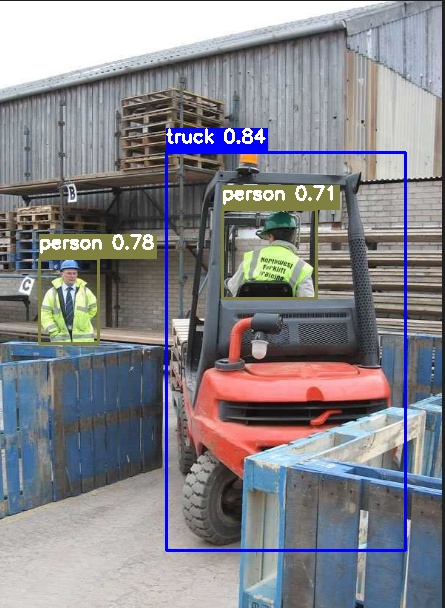
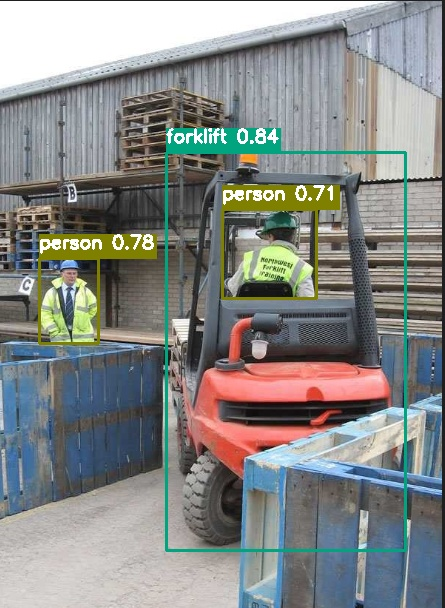
Feat: Added yolov8x

Changed region(s): [[0.0876, 0.1875, 0.9348, 0.9375]]

diff --git a/det.py b/det.py
@@ -1,59 +1,139 @@
-import os
 import cv2
-import time
-import numpy as np
 from ultralytics import YOLO
+import time
+import os
+from pathlib import Path
 
-class ObjectClassifier:
-    def __init__(self, model_path='yolov8n.pt'):
-        # Initialize the YOLO model with the specified model path
-        self.model = YOLO(model_path)
-        self.model.overrides['conf'] = 0.4  # Increased confidence threshold for better detection
-        self.model.overrides['iou'] = 0.5  # IoU threshold for NMS
 
-        # Class label definitions with unique colors for bounding boxes
+class VehicleDetector:
+    def __init__(self):
+        # Load the YOLOv8 model
+        self.model = YOLO('yolov8n')  # Adjust model for faster processing
+        # Set model parameters
+        self.model.overrides['conf'] = 0.40  # Higher confidence threshold
+        self.model.overrides['iou'] = 0.45
+        self.model.overrides['max_det'] = 1000
+
+        # Define classes with unique colors
         self.classes = {
-            0: ('person', (64, 128, 128)),
-            2: ('car', (0, 0, 255)),
-            3: ('bike', (0, 255, 0)),
-            5: ('bus', (255, 165, 0)),
-            6: ('train', (128, 0, 128)),
-            7: ('truck', (255, 0, 0)),        # Blue for truck
-            8: ('forklift', (0, 255, 255))    # Yellow for forklift
+            0: ('person', (0, 128, 128)),  # Dark Yellow for human detection
+            2: ('car', (0, 0, 128)),      # Dark Blue for car
+            3: ('motorcycle', (0, 128, 0)),  # Dark Green for motorcycle
+            5: ('bus', (0, 255, 255)),      # Dark Cyan for bus
+            6: ('train', (128, 0, 128)),    # Dark Magenta for train
+            7: ('truck', (128, 128, 0)),    # Dark Olive for truck
+            8: ('boat', (128, 0, 0)),       # Dark Red for boat
+            'forklift': ('forklift', (128, 165, 0))  # Dark Orange for forklift
         }
 
-    def annotate_frame(self, frame, box, class_id):
-        """Annotate the frame with bounding boxes and class labels."""
-        x1, y1, x2, y2 = map(int, box.xyxy[0])  # Bounding box coordinates
-        label, color = self.classes.get(class_id, ('Unknown', (0, 255, 0)))
-        confidence = box.conf[0]  # Confidence score
-
-        # Only annotate if the confidence is above the threshold
-        if confidence >= 0.4:
-            # Draw bounding box
-            cv2.rectangle(frame, (x1, y1), (x2, y2), color, 2)
-
-            # Add label and confidence above the box
-            label_text = f"{label} {confidence:.2f}"
-            label_size, _ = cv2.getTextSize(label_text, cv2.FONT_HERSHEY_SIMPLEX, 0.6, 2)
-            cv2.rectangle(frame, (x1, y1 - label_size[1] - 10), (x1 + label_size[0], y1), color, -1)
-            cv2.putText(frame, label_text, (x1, y1 - 10), cv2.FONT_HERSHEY_SIMPLEX, 0.6, (255, 255, 255), 2)
-
     def process_frame(self, frame):
-        """Process a single frame to perform object detection and annotation."""
-        results = self.model(frame)  # YOLO detection
+        """Process a single frame and return the annotated frame."""
+        results = self.model.predict(frame)
+        annotated_frame = frame.copy()
+
         for result in results:
             boxes = result.boxes
             for box in boxes:
-                class_id = int(box.cls[0])  # Get the detected class ID
-                if class_id in self.classes:
-                    self.annotate_frame(frame, box, class_id)  # Annotate the frame for recognized classes
-        return frame
+                # Get box coordinates
+                x1, y1, x2, y2 = map(int, box.xyxy[0])
+
+                # Get class and confidence
+                class_id = int(box.cls[0])
+                conf = float(box.conf[0])
+
+                # Ensure forklift detection is separated from truck detection
+                if class_id == 7 and 'forklift' in self.classes:
+                    label, color = self.classes['forklift']
+                elif class_id in self.classes:
+                    label, color = self.classes[class_id]
+                else:
+                    continue  # Skip objects that aren't in our classes
+
+                label_text = f"{label} {conf:.2f}"
+
+                # Draw bounding box with class-specific color
+                cv2.rectangle(annotated_frame, (x1, y1), (x2, y2), color, 2)
+
+                # Add label
+                label_size, _ = cv2.getTextSize(label_text, cv2.FONT_HERSHEY_SIMPLEX, 0.6, 2)
+                cv2.rectangle(annotated_frame, (x1, y1 - label_size[1] - 10),
+                              (x1 + label_size[0], y1), color, -1)
+                cv2.putText(annotated_frame, label_text, (x1, y1 - 10),
+                            cv2.FONT_HERSHEY_SIMPLEX, 0.6, (255, 255, 255), 2)
+
+        return annotated_frame
+
+    def process_image(self, input_path, output_path):
+        """Process a single image."""
+        image = cv2.imread(input_path)
+        if image is None:
+            print(f"Error: Could not read image {input_path}")
+            return
+
+        # Process the image
+        processed_image = self.process_frame(image)
+
+        # Ensure output directory exists
+        os.makedirs(os.path.dirname(output_path), exist_ok=True)
+        cv2.imwrite(output_path, processed_image)
+        print(f"Processed image saved to {output_path}")
+
+    def process_video(self, input_path, output_path, frame_interval=1):
+        """Process video with specified frame interval."""
+        cap = cv2.VideoCapture(input_path)
+        if not cap.isOpened():
+            print(f"Error: Could not open video {input_path}")
+            return
+
+        # Get video properties
+        frame_width = int(cap.get(cv2.CAP_PROP_FRAME_WIDTH))
+        frame_height = int(cap.get(cv2.CAP_PROP_FRAME_HEIGHT))
+        fps = int(cap.get(cv2.CAP_PROP_FPS)) or 30
+        total_frames = int(cap.get(cv2.CAP_PROP_FRAME_COUNT))
+
+        # Create VideoWriter object
+        os.makedirs(os.path.dirname(output_path), exist_ok=True)
+        fourcc = cv2.VideoWriter_fourcc(*'mp4v')
+        out = cv2.VideoWriter(output_path, fourcc, fps / frame_interval,
+                              (frame_width, frame_height))
+
+        frame_count = 0
+        processed_count = 0
+        start_time = time.time()
+
+        while cap.isOpened():
+            ret, frame = cap.read()
+            if not ret:
+                break
+
+            frame_count += 1
+
+            # Process every nth frame
+            if frame_count % frame_interval == 0:
+                processed_count += 1
+
+                # Process the frame
+                processed_frame = self.process_frame(frame)
+
+                # Write the frame
+                out.write(processed_frame)
+
+                # Calculate and display progress
+                elapsed_time = time.time() - start_time
+                fps_current = processed_count / elapsed_time
+                progress = (frame_count / total_frames) * 100
+
+                print(f"Processing frame {frame_count}/{total_frames} "
+                      f"({progress:.1f}%) - FPS: {fps_current:.1f}")
+
+        cap.release()
+        out.release()
+        cv2.destroyAllWindows()
+        print(f"Video processing complete. Output saved to {output_path}")
 
     def process_live_camera(self):
         """Process live camera feed."""
-        cap = cv2.VideoCapture(0)  # Open the first camera device
-
+        cap = cv2.VideoCapture(0)
         if not cap.isOpened():
             print("Error: Could not access the camera.")
             return False
@@ -65,8 +145,11 @@ class ObjectClassifier:
                 if not ret:
                     break
 
+                # Process the frame
                 processed_frame = self.process_frame(frame)
-                cv2.imshow("Live Classification", processed_frame)
+
+                # Display the processed frame
+                cv2.imshow("Live Vehicle Detection", processed_frame)
 
                 # Exit loop if 'q' is pressed
                 if cv2.waitKey(1) & 0xFF == ord('q'):
@@ -76,62 +159,50 @@ class ObjectClassifier:
             cv2.destroyAllWindows()
         return True
 
-    def process_image(self, input_path, output_path):
-        """Process a single image."""
-        if not os.path.exists(input_path):
-            print(f"Error: Image file {input_path} not found.")
-            return
 
-        os.makedirs(os.path.dirname(output_path), exist_ok=True)
-        image = cv2.imread(input_path)
-        processed_image = self.process_frame(image)
-        cv2.imwrite(output_path, processed_image)
-        print(f"Processed image saved at: {output_path}")
+def process_all_images(input_folder, output_folder):
+    """Process all images in the input folder and save in the output folder."""
+    detector = VehicleDetector()
 
-    def process_video(self, input_path, output_path):
-        """Process a video."""
-        if not os.path.exists(input_path):
-            print(f"Error: Video file {input_path} not found.")
-            return
+    # Ensure output folder exists
+    os.makedirs(output_folder, exist_ok=True)
 
-        os.makedirs(os.path.dirname(output_path), exist_ok=True)
-        cap = cv2.VideoCapture(input_path)
-        width = int(cap.get(cv2.CAP_PROP_FRAME_WIDTH))
-        height = int(cap.get(cv2.CAP_PROP_FRAME_HEIGHT))
-        fps = int(cap.get(cv2.CAP_PROP_FPS))
+    # Supported image extensions
+    image_extensions = {'.jpg', '.jpeg', '.png', '.bmp', '.tiff'}
 
-        fourcc = cv2.VideoWriter_fourcc(*'XVID')
-        out = cv2.VideoWriter(output_path, fourcc, fps, (width, height))
+    # Process each file in the input folder
+    for file_name in os.listdir(input_folder):
+        input_path = os.path.join(input_folder, file_name)
+        output_path = os.path.join(output_folder, file_name)
 
-        while cap.isOpened():
-            ret, frame = cap.read()
-            if not ret:
-                break
-
-            processed_frame = self.process_frame(frame)
-            out.write(processed_frame)
-
-        cap.release()
-        out.release()
-        print(f"Processed video saved at: {output_path}")
+        # Check if the file is an image
+        if Path(input_path).suffix.lower() in image_extensions:
+            print(f"Processing image: {input_path}")
+            detector.process_image(input_path, output_path)
+        else:
+            print(f"Skipped unsupported file: {input_path}")
 
 
 def main():
-    classifier = ObjectClassifier()
+    # Choose processing mode
+    mode = "all_images"  # Options: 'live_camera', 'image', 'video', 'all_images'
 
-    # Choose processing mode: live camera, image, or video
-    mode = "live_camera"  # Change to "live_camera" or "video" as needed
+    detector = VehicleDetector()
 
     if mode == "live_camera":
-        classifier.process_live_camera()
+        detector.process_live_camera()
     elif mode == "image":
         input_image = './Datasets/img.png'
         output_image = './results/processed_image.jpg'
-        classifier.process_image(input_image, output_image)
+        detector.process_image(input_image, output_image)
     elif mode == "video":
         input_video = './Datasets/sample_video.mp4'
         output_video = './results/processed_video.avi'
-        classifier.process_video(input_video, output_video)
+        detector.process_video(input_video, output_video)
+    elif mode == "all_images":
+        input_folder = './dataset'
+        output_folder = './result1'
+        process_all_images(input_folder, output_folder)
 
 
 if __name__ == "__main__":
